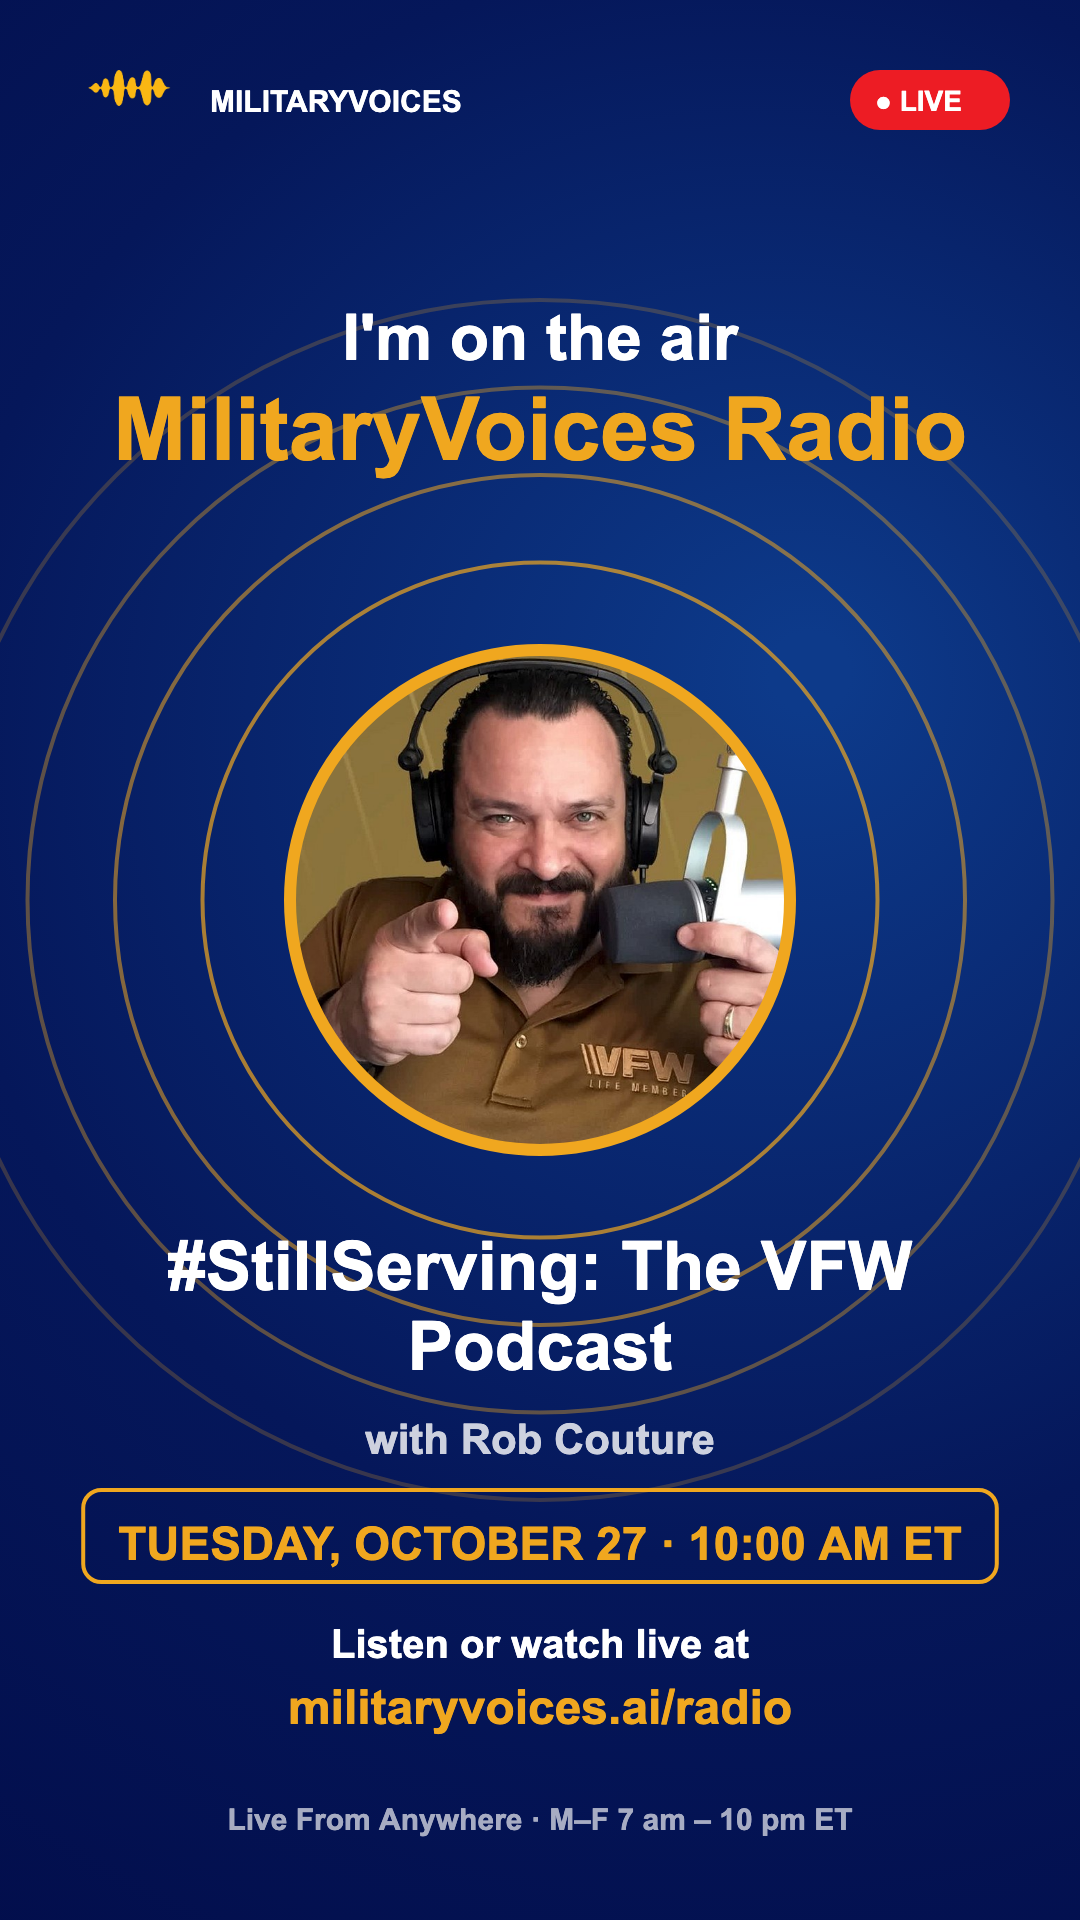
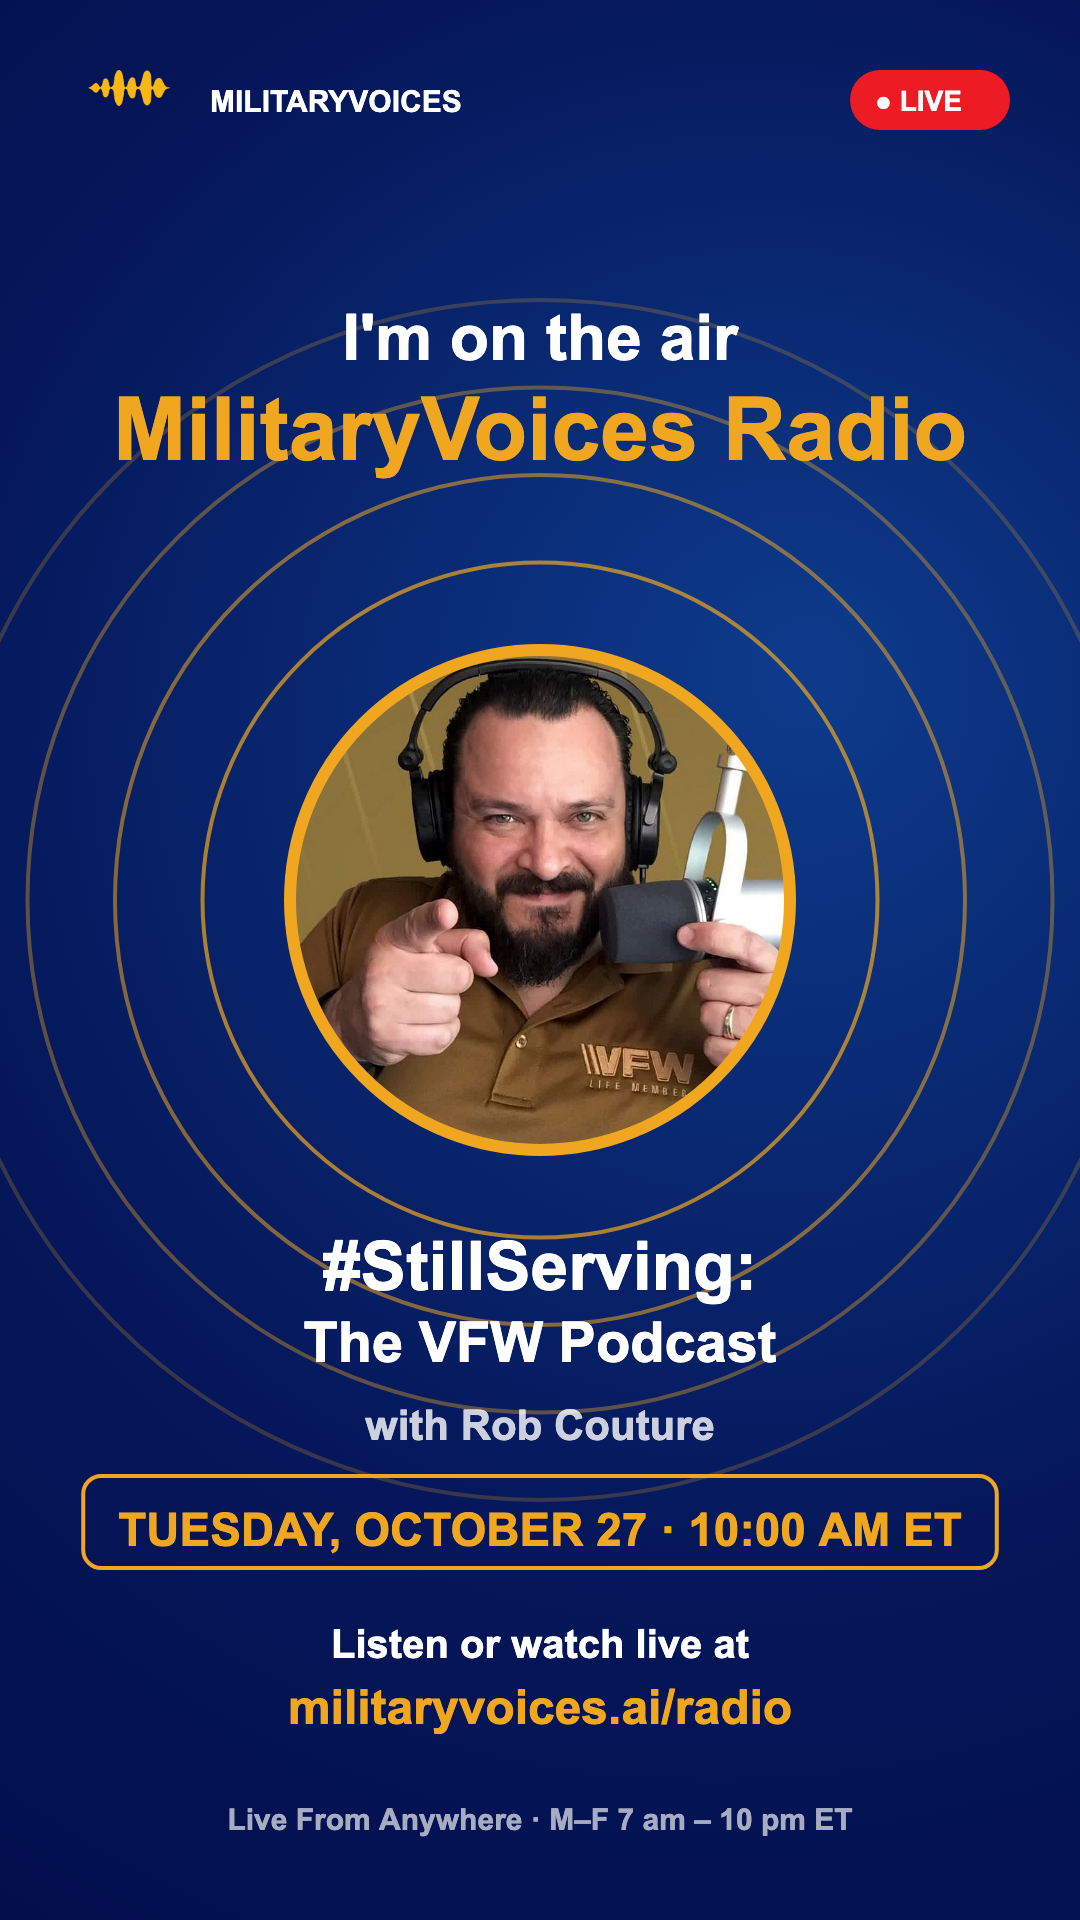
Radio share graphics: a show named 'Name: subtitle' puts the subtitle on its own line a size down (#StillServing: / The VFW Podcast); the square lifts the photo to make room

Changed region(s): [[0.0611, 0.625, 0.9167, 0.8438]]

diff --git a/client/src/components/DxShare.tsx b/client/src/components/DxShare.tsx
@@ -59,8 +59,14 @@ export async function draw(b: DxShareBooking, shape: "square" | "story"): Promis
   const g = x.createRadialGradient(W * 0.75, H * 0.35, 40, W * 0.6, H * 0.45, H * 0.9);
   g.addColorStop(0, "#0d3a8a"); g.addColorStop(0.45, "#05175a"); g.addColorStop(1, "#000741");
   x.fillStyle = g; x.fillRect(0, 0, W, H);
+  // "#StillServing: The VFW Podcast" reads as a name and a subtitle: the part
+  // after the colon gets its own line, a size down. The square makes room by
+  // lifting the photo a little.
+  const colon = b.show.indexOf(": ");
+  const [title, subtitle] = colon > 0 ? [b.show.slice(0, colon + 1), b.show.slice(colon + 2)] : [b.show, ""];
+  const sq = shape === "square", two = !!subtitle;
   // Broadcast rings behind the photo.
-  const cy = shape === "square" ? 520 : 900, cx = W / 2, r = shape === "square" ? 145 : 250;
+  const cy = sq ? (two ? 505 : 520) : 900, cx = W / 2, r = sq ? (two ? 135 : 145) : 250;
   [1.35, 1.7, 2.05, 2.4].forEach((k, i) => { x.beginPath(); x.arc(cx, cy, r * k, 0, Math.PI * 2); x.strokeStyle = `rgba(240,167,31,${0.7 - i * 0.16})`; x.lineWidth = 4; x.stroke(); });
   const font = (w: number, s: number) => `${w} ${s}px Inter, Arial, sans-serif`;
   // Brand line and LIVE pill.
@@ -88,9 +94,13 @@ export async function draw(b: DxShareBooking, shape: "square" | "story"): Promis
   x.restore();
   x.beginPath(); x.arc(cx, cy, r, 0, Math.PI * 2); x.strokeStyle = "#F0A71F"; x.lineWidth = 12; x.stroke();
   // Show, host, time.
-  let y = cy + r + (shape === "square" ? 72 : 140);
-  x.fillStyle = "#fff"; x.font = font(900, shape === "square" ? 54 : 68);
-  for (const l of wrap(x, b.show, W - 160, shape === "square" ? 1 : 2)) { x.fillText(l, cx, y); y += shape === "square" ? 62 : 80; }
+  let y = cy + r + (sq ? (two ? 66 : 72) : 140);
+  x.fillStyle = "#fff"; x.font = font(900, sq ? 54 : 68);
+  for (const l of wrap(x, title, W - 160, sq || two ? 1 : 2)) { x.fillText(l, cx, y); y += sq ? 62 : 80; }
+  if (two) {
+    x.font = font(800, sq ? 44 : 56);
+    x.fillText(wrap(x, subtitle, W - 160, 1)[0] ?? "", cx, y - (sq ? 6 : 8)); y += sq ? 48 : 66;
+  }
   x.fillStyle = "rgba(255,255,255,0.8)"; x.font = font(600, shape === "square" ? 34 : 42);
   x.fillText(`with ${b.host}`, cx, y + 4); y += shape === "square" ? 76 : 110;
   // The time, in the gold box.
